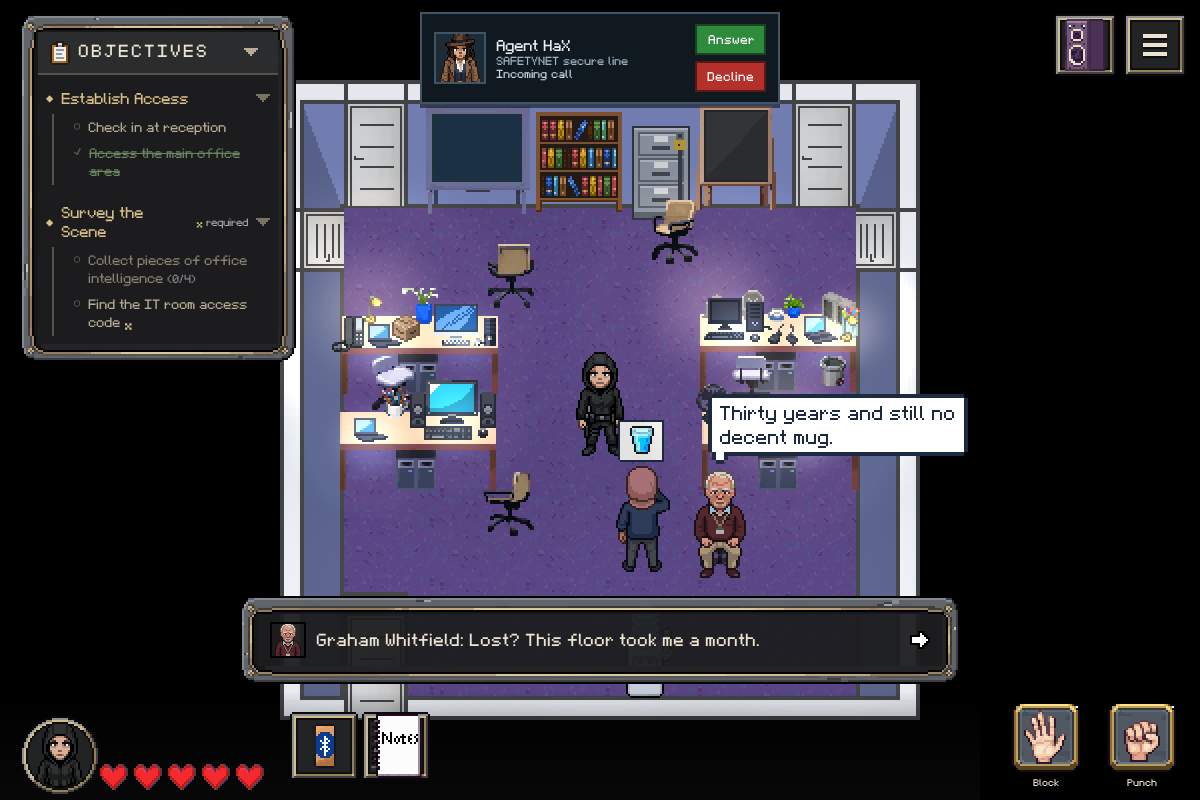
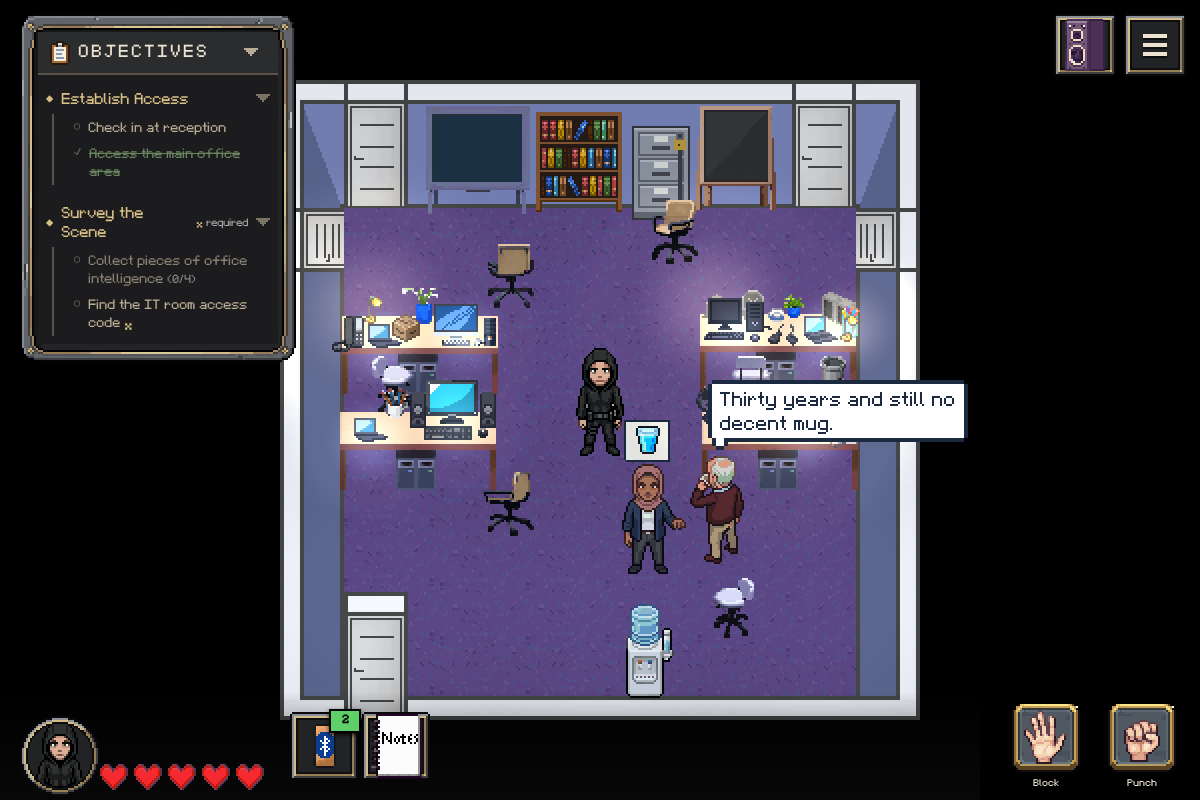
m01 office life: R1 and dialogue fixes report, new cooler screenshot

Changed region(s): [[0.185, 0.4375, 0.8017, 0.9375], [0.3392, 0.0, 0.6475, 0.1562], [0.3083, 0.4375, 0.3392, 0.5312]]

diff --git a/scenarios/m01_first_contact/office_life/BUILD_REPORT.md b/scenarios/m01_first_contact/office_life/BUILD_REPORT.md
@@ -111,3 +111,26 @@ Minors, none caused by office life:
 - SOLUTION_GUIDE.md numbering differs from the baseline and has no entry for the personal safe PIN 0319, which the player infers from "my birthday (19th March)" in Derek's personal notes.
 - Derek was found in the break room, not his office.
 - The launch code comes only from the VM (expected under the VM flag rules).
+
+## R1 and dialogue fixes
+
+Fixes from BUILD_REVIEW_R1.md and DIALOGUE_REVIEW.md. Commits: c1ca339de (ink, scenario data), ee9a3723f (spoken-line docs, plan note, handover count), then the facing fix, probes and this report.
+
+### Build review R1
+- m1 (Graham sat in a desk chair at the cooler): `"seat": "stand"` added to the office_cooler affordance. Live, game 7220: Graham `_seat` false at the cooler, standing, chair 155 empty. Screenshot screenshots/cooler-in-use.png replaced (Graham and Fatima both standing).
+- m2 (Fatima faced north while drinking): cause found. After the 3 s `use` lead pose (turned south to the cooler) the drink pose plays at the NPC's current direction, and `face_player` (facePlayerDistance 96, three tiles) turned her to the player standing north of the cooler. Data fix: Fatima's `facePlayerDistance` 96 to 48, so only a player within 1.5 tiles turns her; talks still turn her through `faceForChat`. Live, game 7220, three runs: Fatima plays `pose_use_south`, then `pose_drink_south`, and later `pose_drink_east` when she turns to Graham for the cooler chat (social turn, expected). Before the change (game 7215) she played `pose_drink_north`. `useFrom` was not the cause (dy -1 gives a south face point).
+- n1: one sentence added to PLAN.md section 11 (Maya's `no_source` park cannot happen in normal play).
+- n3: handover clip counts changed to "18 office-life clips, 22 with the 4 talk lines" (tmp/handover/M01_BUILD_HANDOVER.md, still tracked).
+- n4 (KO of Maya before her first talk): game 7225, real punches, probe tools/playtest/m01-ol-maya-ko-first.mjs. Nine punches to KO in her own office. `maya_ko` true, `maya_away` false, `maya_settled` false, `discussed_operation` false, `m01_staff_alarmed` false. Her needs mode stayed idle with no job 18 s later, so no trip. Navigation hallway_east, main_office_area, hallway_east, maya_office all ok; no blocking UI; no console errors. `talk_to_maya` is optional, so the mission stays completable as in the base game.
+- n5: the three V4 warnings (Fatima, Graham, Maya) remain because `E1_PROBE_PASSED` is a constant (`false`) at scripts/validate_office_life.rb:42, shared by every mission. The attack probe passed (routes above and in the Checks agent section); the validator cannot see that.
+- m3 (the not_here close without a Maya reply): accepted. The plan reuses a cached line on purpose and adds no new clip, so the lint `exit-no-reply` warning stays.
+- n2, n6: no change (as ruled in the review).
+
+### Dialogue review
+Applied: M1, M2, m2, m3 (and R1 n7), m4, n1, n3. Not applied: m1 (new Maya reply), n2, n4. Changed lines are listed in the final report and in SPOKEN_LINES.md and DIALOGUE_SAMPLE.md. Brush-off lines gained `#delivery` cues (Graham's two: dry, deadpan; Fatima's opener: brisk, apologetic). Ink recompiled (9 compiled, 0 failed).
+
+### Checks after the fixes
+- Validator: 0 errors, 26 warnings (unchanged). Lock and key diff against baseline_locks.json: empty.
+- V6 keyless: 18 office-life clips, 18 uncached, 589 characters (was 621).
+- scripts/ink_runtime_check/maya_routes.js: all route checks passed.
+- bin/test-js: 748 files passed, 0 failed.
